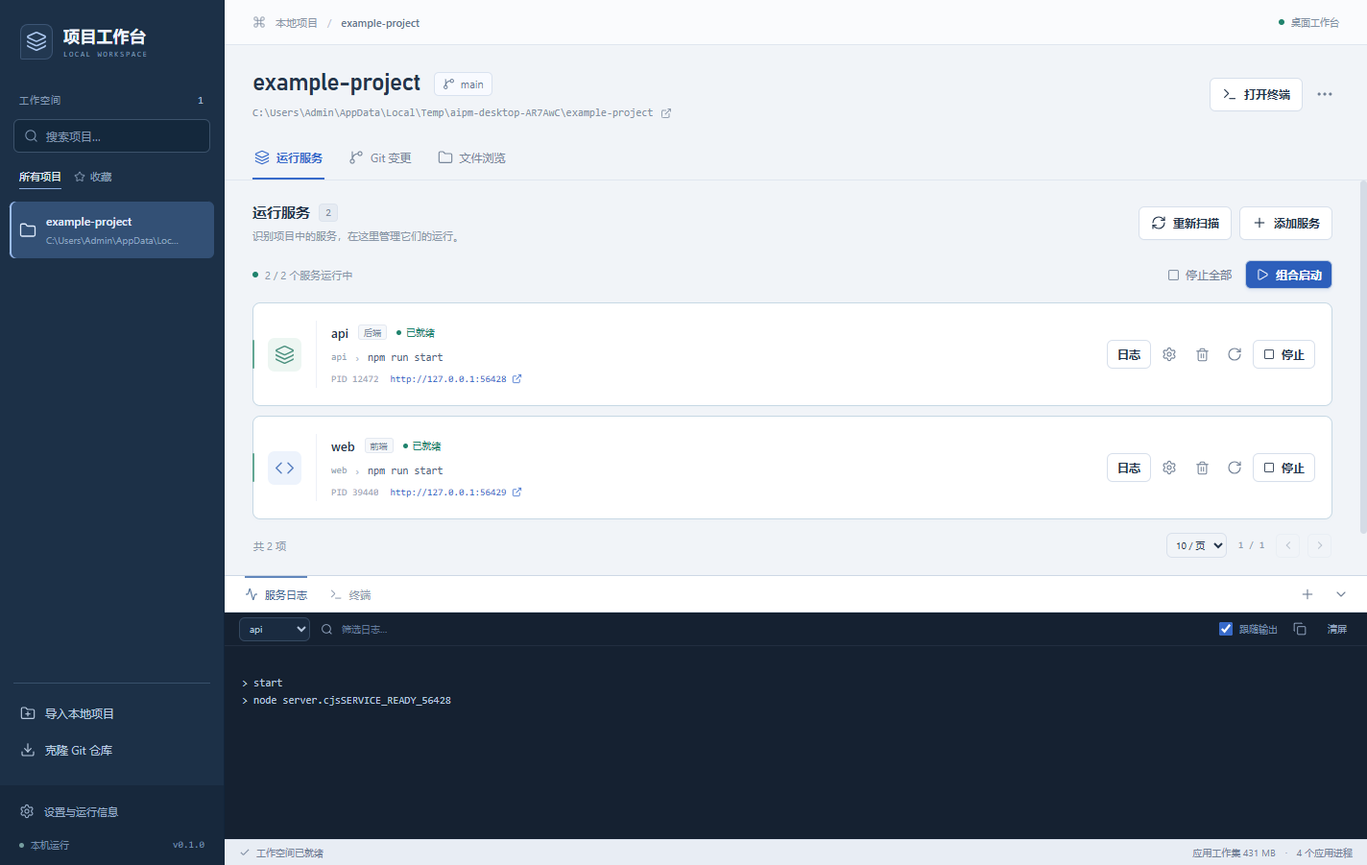
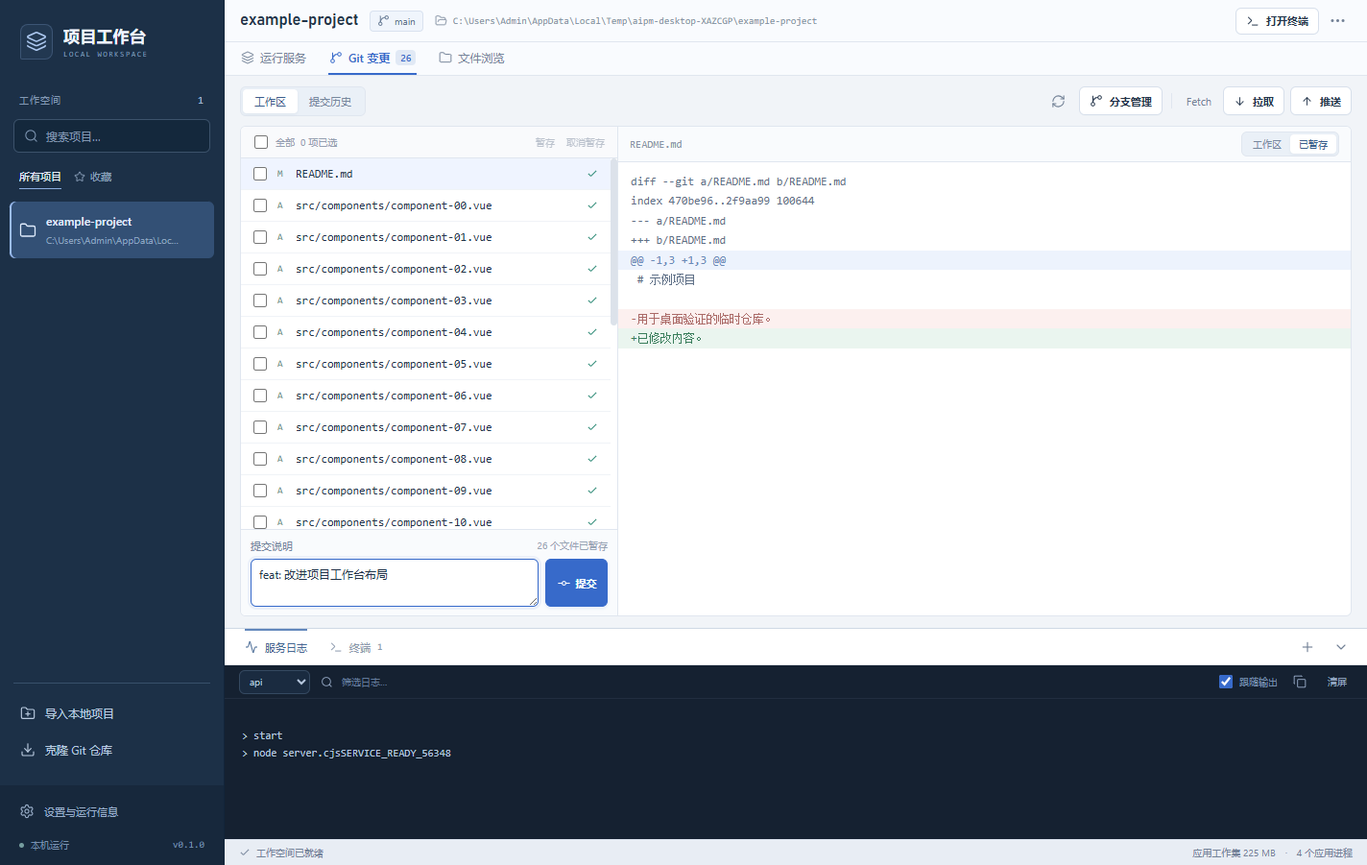
优化工作区布局，扩大 Git 变更与文件展示空间

diff --git a/src/styles/panels.css b/src/styles/panels.css
@@ -1,4 +1,7 @@
-.run-toolbar { display: flex; justify-content: space-between; align-items: center; padding: 0 0 14px; }
+.service-toolbar, .file-toolbar { display: flex; justify-content: space-between; align-items: center; gap: 12px; min-height: 32px; margin-bottom: 10px; flex-shrink: 0; }
+.service-toolbar > .button-group { gap: 6px; }
+.service-toolbar .button, .service-toolbar .text-button, .git-toolbar .button, .git-toolbar .text-button, .file-toolbar .button { font-size: 11px; }
+.toolbar-divider { width: 1px; height: 16px; background: var(--line); flex-shrink: 0; margin: 0 3px; }
 .run-summary { display: flex; align-items: center; gap: 7px; font-size: 11px; color: #8997aa; }
 .service-list { display: flex; flex-direction: column; gap: 10px; }
 .service-card { display: flex; align-items: center; position: relative; padding: 18px 17px 18px 0; background: #fff; border: 1px solid #dce4ef; border-radius: 8px; min-height: 108px; box-shadow: 0 2px 4px #1c304703; gap: 15px; }
@@ -30,46 +33,46 @@
 .start-button { color: var(--accent); background: #f3f7fe; border-color: #dce5f4; min-width: 66px; }
 .service-error { margin-top: 9px; color: #aa754e; font-size: 10px; line-height: 1.6; }
 .panel-tip { display: flex; gap: 7px; color: #8e9bad; font-size: 10px; margin-top: 12px; line-height: 1.7; }
-.git-toolbar { display: flex; justify-content: space-between; align-items: center; margin-bottom: 15px; }
-.git-columns, .file-columns { display: grid; grid-template-columns: minmax(270px, 34%) minmax(0, 1fr); border: 1px solid var(--line); border-radius: 7px; background: #fff; overflow: hidden; min-height: 340px; }
-.git-workspace { display: flex; flex-direction: column; }
-.git-panel { display: flex; flex-direction: column; flex: 1; min-height: 0; }
-.git-panel > .section-heading, .git-toolbar, .git-panel > .warning-banner { flex-shrink: 0; }
-.git-panel .git-columns { flex: 1; min-height: 300px; }
-.git-panel .changes-column, .git-panel .diff-column { min-height: 0; }
-.git-panel .changes-actions, .git-panel .commit-form, .git-panel .diff-header { flex-shrink: 0; }
-.git-panel .diff-content { flex: 1; min-height: 0; max-height: none; }
-.git-panel .diff-empty { min-height: 0; }
-.changes-column, .file-list-column { border-right: 1px solid var(--line); display: flex; flex-direction: column; min-width: 0; }
-.changes-actions { display: flex; align-items: center; gap: 6px; padding: 9px 10px; background: #f9fafc; border-bottom: 1px solid var(--line); font-size: 10px; color: #95a0b1; }
+.git-toolbar { display: flex; justify-content: space-between; align-items: center; gap: 12px; min-height: 32px; margin-bottom: 10px; flex-shrink: 0; }
+.git-toolbar > .button-group { gap: 6px; }
+.git-columns, .file-columns { display: grid; grid-template-columns: minmax(270px, 34%) minmax(0, 1fr); flex: 1; min-height: 0; border: 1px solid var(--line); border-radius: 6px; background: #fff; overflow: hidden; }
+.git-workspace, .file-workspace { display: flex; flex-direction: column; min-height: 260px; overflow: hidden; }
+.git-panel, .file-panel { display: flex; flex-direction: column; flex: 1; min-height: 0; }
+.git-panel > .warning-banner { flex-shrink: 0; }
+.changes-column, .file-list-column { border-right: 1px solid var(--line); display: flex; flex-direction: column; min-width: 0; min-height: 0; }
+.changes-actions { display: flex; align-items: center; flex-shrink: 0; gap: 6px; min-height: 33px; padding: 5px 10px; background: #f9fafc; border-bottom: 1px solid var(--line); font-size: 10px; color: #95a0b1; }
 .changes-actions > label { display: flex; align-items: center; gap: 5px; }
 .changes-actions > span { margin-right: auto; }
 .changes-actions .text-button { font-size: 10px; padding: 3px; }
 .change-list { flex: 1; min-height: 0; overflow-y: auto; overscroll-behavior-y: contain; }
 .change-row { display: flex; align-items: center; gap: 4px; padding: 0 9px; border-bottom: 1px solid #f0f3f7; }
 .change-row.selected { background: #eff4ff; }
-.change-row > button { display: flex; align-items: center; gap: 7px; text-align: left; padding: 10px 4px; width: 100%; min-width: 0; }
-.change-row .mono { font-size: 11px; overflow: hidden; text-overflow: ellipsis; white-space: nowrap; }
+.change-row > button { display: flex; align-items: center; gap: 7px; text-align: left; padding: 8px 4px; min-height: 32px; width: 100%; min-width: 0; }
+.change-row .mono { font-size: 12px; overflow: hidden; text-overflow: ellipsis; white-space: nowrap; }
 .file-status { font: 10px 'Cascadia Code', Consolas, monospace; color: #699187; width: 12px; }
 .file-status.conflict { color: var(--danger); }
 .staged-indicator { color: var(--success); margin-left: auto; display: flex; }
-.clean-state { display: flex; align-items: center; flex-direction: column; gap: 9px; color: #9caebf; padding: 38px 15px; }
+.clean-state { display: flex; justify-content: center; align-items: center; flex-direction: column; gap: 9px; height: 100%; color: #9caebf; padding: 16px; }
 .clean-state strong { color: #72849b; font-size: 12px; font-weight: 500; }
 .clean-state p { font-size: 10px; }
-.commit-form { padding: 14px 12px; border-top: 1px solid var(--line); display: flex; flex-direction: column; gap: 10px; background: #f9fbfd; }
+.commit-form { padding: 9px 10px; border-top: 1px solid var(--line); display: flex; flex-direction: column; flex-shrink: 0; gap: 6px; background: #f9fbfd; }
 .commit-form > label { display: flex; justify-content: space-between; font-size: 11px; color: #76879e; }
 .commit-form > label > span { font-size: 10px; color: #99a5b5; }
-.commit-form textarea { min-height: 76px; max-height: 150px; font-size: 11px; }
-.diff-column, .file-preview { min-width: 0; display: flex; flex-direction: column; }
-.diff-header { min-height: 40px; display: flex; align-items: center; justify-content: space-between; gap: 10px; padding: 8px 13px; border-bottom: 1px solid var(--line); background: #f9fbfd; color: #8794a7; font-size: 10px; }
+.commit-compose { display: flex; align-items: stretch; gap: 7px; min-width: 0; }
+.commit-compose textarea { flex: 1; min-width: 0; min-height: 48px; max-height: 120px; padding: 6px 8px; font-size: 12px; line-height: 1.5; }
+.commit-compose > .button { flex-shrink: 0; min-width: 65px; padding: 6px 9px; gap: 5px; font-size: 11px; }
+.diff-column, .file-preview { min-width: 0; min-height: 0; display: flex; flex-direction: column; }
+.diff-header { min-height: 33px; flex-shrink: 0; display: flex; align-items: center; justify-content: space-between; gap: 10px; padding: 5px 12px; border-bottom: 1px solid var(--line); background: #f9fbfd; color: #8794a7; font-size: 11px; }
 .diff-header > span { overflow: hidden; text-overflow: ellipsis; white-space: nowrap; }
-.diff-empty { flex: 1; display: flex; align-items: center; justify-content: center; flex-direction: column; gap: 12px; min-height: 230px; color: #a5b2c3; font-size: 11px; }
-.diff-content { overflow: auto; max-height: 520px; min-height: 230px; padding: 12px 0; font-size: 11px; line-height: 1.8; color: #5f7087; }
+.diff-empty { flex: 1; display: flex; align-items: center; justify-content: center; flex-direction: column; gap: 12px; min-height: 0; color: #a5b2c3; font-size: 11px; }
+.diff-content { flex: 1; overflow: auto; min-height: 0; padding: 10px 0; font-size: 12px; line-height: 1.7; color: #5f7087; }
 .diff-line { display: block; padding: 0 13px; min-height: 19px; white-space: pre; }
 .diff-line.addition { background: #eaf5ef; color: #3a7e5c; }
 .diff-line.deletion { background: #fcf0ef; color: #ab6a67; }
 .diff-line.hunk { background: #edf3fd; color: #6a8ab8; }
-.history-panel { background: #fff; border: 1px solid var(--line); border-radius: 7px; overflow: hidden; }
+.history-panel { flex: 1; min-height: 0; display: flex; flex-direction: column; background: #fff; border: 1px solid var(--line); border-radius: 6px; overflow: hidden; }
+.history-list { flex: 1; min-height: 0; overflow: auto; }
+.history-panel > .pagination { flex-shrink: 0; padding: 9px 12px; border-top: 1px solid var(--line); }
 .commit-row { display: flex; align-items: center; gap: 13px; padding: 15px 18px; border-bottom: 1px solid #edf0f5; }
 .commit-node { color: #8ca5c6; }
 .commit-row h3 { font-size: 12px; font-weight: 500; }
@@ -81,16 +84,17 @@
 .branch-row { display: flex; align-items: center; gap: 10px; padding: 12px 0; border-bottom: 1px solid #edf0f5; color: #6c82a0; }
 .branch-row > .mono { flex: 1; font-size: 12px; overflow: hidden; text-overflow: ellipsis; }
 .branch-row small { display: block; margin-top: 5px; font-size: 10px; color: #9ca9ba; }
-.breadcrumbs { display: flex; align-items: center; gap: 7px; color: #a5b2c2; padding: 0 0 14px; overflow-x: auto; }
+.breadcrumbs { display: flex; align-items: center; gap: 7px; min-width: 0; color: #a5b2c2; overflow-x: auto; }
 .breadcrumbs button { display: flex; align-items: center; gap: 7px; color: #6c82a0; font-size: 11px; white-space: nowrap; }
 .file-row { width: 100%; display: flex; align-items: center; gap: 9px; padding: 11px 13px; border-bottom: 1px solid #f0f3f7; text-align: left; font-size: 11px; color: #7e8fa6; }
 .file-row > span { color: #526984; overflow: hidden; text-overflow: ellipsis; white-space: nowrap; }
 .file-row small { margin-left: auto; font: 9px 'Cascadia Code', Consolas, monospace; color: #9fabbc; white-space: nowrap; }
 .file-row:hover, .file-row.selected { background: #f0f5ff; }
 .file-row .folder-icon { color: #a68b5e; }
-.file-list { flex: 1; }
-.file-content { padding: 17px; max-height: 550px; overflow: auto; font-size: 11px; line-height: 1.85; color: #53647c; }
-.output-dock { position: relative; flex-shrink: 0; height: 275px; display: flex; flex-direction: column; border-top: 1px solid #ced8e5; background: var(--terminal); }
+.file-list { flex: 1; min-height: 0; overflow: auto; }
+.file-list-column > .pagination { flex-shrink: 0; border-top: 1px solid var(--line); }
+.file-content { flex: 1; min-height: 0; padding: 14px; overflow: auto; font-size: 12px; line-height: 1.8; color: #53647c; }
+.output-dock { position: relative; flex-shrink: 0; height: 220px; display: flex; flex-direction: column; border-top: 1px solid #ced8e5; background: var(--terminal); }
 .output-dock.collapsed { height: 38px; }
 .dock-resizer { position: absolute; z-index: 5; top: -4px; left: 0; right: 0; height: 8px; cursor: ns-resize; touch-action: none; outline: none; }
 .dock-resizer::after { content: ''; position: absolute; top: 3px; left: 0; right: 0; height: 2px; background: transparent; transition: background .12s; }
@@ -125,6 +129,6 @@
 .terminal-host { min-height: 0; flex: 1; position: relative; }
 .terminal-canvas { position: absolute; inset: 8px 3px 5px 12px; }
 .terminal-canvas .xterm { height: 100%; }
-@media(max-height: 800px) { .output-dock { height: 225px; } .project-header { padding-top: 18px; padding-bottom: 15px; } .service-card { padding-top: 14px; padding-bottom: 14px; min-height: 95px; } }
+@media(max-height: 800px) { .output-dock { height: 180px; } .service-card { padding-top: 14px; padding-bottom: 14px; min-height: 95px; } }
 @media(max-width: 1120px) { .service-card { gap: 11px; padding-right: 11px; } .service-rail { width: 53px; } .service-actions { gap: 2px; } .service-actions .icon-button { width: 25px; } .service-meta > span { max-width: 260px; } }
-@media(max-width: 850px) { .git-columns, .file-columns { grid-template-columns: 1fr; } .changes-column, .file-list-column { border-right: 0; border-bottom: 1px solid var(--line); } .section-heading { align-items: flex-start; flex-wrap: wrap; } .service-card { flex-wrap: wrap; } .service-actions { margin-left: 64px; } .auto-scroll { display: none; } }
+@media(max-width: 850px) { .git-columns, .file-columns { grid-template-columns: 1fr; grid-template-rows: minmax(160px, 1fr) minmax(120px, 1fr); } .changes-column, .file-list-column { border-right: 0; border-bottom: 1px solid var(--line); } .git-toolbar, .service-toolbar { flex-wrap: wrap; } .git-toolbar > .button-group { flex-wrap: wrap; } .section-heading { align-items: flex-start; flex-wrap: wrap; } .service-card { flex-wrap: wrap; } .service-actions { margin-left: 64px; } .auto-scroll { display: none; } }

diff --git a/src/components/git/GitPanel.vue b/src/components/git/GitPanel.vue
@@ -34,15 +34,14 @@ async function showDiff(file: GitFile, staged: boolean) {
 async function mutate(operation: 'stage' | 'unstage' | 'commit' | 'fetch' | 'pull' | 'push' | 'abort') {
   if (busy.value) return; busy.value = true;
   await ws.task(`Git ${operation}`, async () => {
-    let output: string;
     if (operation === 'stage' || operation === 'unstage') {
       const paths = selected.value.filter(f => operation === 'stage' ? f.unstaged : f.staged).flatMap(f => operation === 'unstage' && f.originalPath ? [f.path, f.originalPath] : [f.path]);
-      output = await request(`git:${operation}`, { projectId: props.project.id, paths: [...new Set(paths)] });
+      await request(`git:${operation}`, { projectId: props.project.id, paths: [...new Set(paths)] });
       checked.value = [];
     } else if (operation === 'commit') {
-      output = await request('git:commit', { projectId: props.project.id, message: message.value }); message.value = '';
-    } else output = await request(`git:${operation}`, { projectId: props.project.id });
-    ws.notify(output.trim().slice(0, 600) || 'Git 操作完成');
+      await request('git:commit', { projectId: props.project.id, message: message.value }); message.value = '';
+    } else await request(`git:${operation}`, { projectId: props.project.id });
+    ws.notify({ stage: '已暂存所选文件', unstage: '已取消所选文件的暂存', commit: '提交完成', fetch: '已获取远端更新', pull: '拉取完成', push: '推送完成', abort: '已中止合并' }[operation]);
   });
   await refresh(); if (selectedFile.value) await showDiff(selectedFile.value, selectedStaged.value); busy.value = false;
 }
@@ -51,21 +50,20 @@ onMounted(refresh);
 </script>
 <template>
   <section class="git-panel">
-    <div class="section-heading"><div><h2>代码变更 <span>{{ files.length }}</span></h2><p>检查文件差异，再将选中的修改提交到仓库。</p></div><div class="button-group"><button class="button" :disabled="busy" @click="refresh"><AppIcon name="RefreshCw" />刷新</button><button class="button" :disabled="busy || !ws.gitStatus.value?.isRepository" @click="branches = true"><AppIcon name="GitBranch" />分支管理</button></div></div>
+    <div class="git-toolbar"><div class="segmented"><button :class="{ active: mode === 'changes' }" :disabled="!ws.gitStatus.value?.isRepository" @click="mode = 'changes'">工作区</button><button :class="{ active: mode === 'history' }" :disabled="!ws.gitStatus.value?.isRepository" @click="mode = 'history'">提交历史</button></div><div class="button-group"><button class="icon-button" :disabled="busy" aria-label="刷新" title="刷新 Git 状态" @click="refresh"><AppIcon name="RefreshCw" :size="15" /></button><button class="button small" :disabled="busy || !ws.gitStatus.value?.isRepository" @click="branches = true"><AppIcon name="GitBranch" :size="14" />分支管理</button><span class="toolbar-divider" /><button class="text-button" :disabled="busy || !ws.gitStatus.value?.isRepository" @click="mutate('fetch')">Fetch</button><button class="button small" :disabled="busy || !ws.gitStatus.value?.isRepository" title="仅允许快进，不自动合并或变基" @click="mutate('pull')"><AppIcon name="ArrowDown" :size="13" />拉取</button><button class="button small" :disabled="busy || !ws.gitStatus.value?.isRepository" @click="mutate('push')"><AppIcon name="ArrowUp" :size="13" />推送</button></div></div>
     <div v-if="ws.gitError.value" class="error-banner">{{ ws.gitError.value }}</div>
     <div v-else-if="!ws.gitStatus.value?.isRepository" class="empty-card"><AppIcon name="GitBranch" :size="30" /><h3>此目录还不是 Git 仓库</h3><p>可在项目终端中执行 git init，或导入已有仓库。</p><button class="button" @click="ws.newTerminal">打开终端</button></div>
     <template v-else>
-      <div class="git-toolbar"><div class="segmented"><button :class="{ active: mode === 'changes' }" @click="mode = 'changes'">工作区</button><button :class="{ active: mode === 'history' }" @click="mode = 'history'">提交历史</button></div><div class="button-group"><button class="text-button" :disabled="busy" @click="mutate('fetch')">Fetch</button><button class="button small" :disabled="busy" title="仅允许快进，不自动合并或变基" @click="mutate('pull')"><AppIcon name="ArrowDown" :size="13" />拉取</button><button class="button small" :disabled="busy" @click="mutate('push')"><AppIcon name="ArrowUp" :size="13" />推送</button></div></div>
       <div v-if="ws.gitStatus.value.merging" class="warning-banner"><AppIcon name="GitMerge" /><span>合并尚未完成。请处理冲突后暂存并提交，或中止本次合并。</span><button class="button small" :disabled="busy" @click="mutate('abort')">中止合并</button></div>
       <div v-if="mode === 'changes'" class="git-columns">
         <div class="changes-column"><div class="changes-actions"><label><input type="checkbox" :checked="files.length > 0 && selected.length === files.length" :indeterminate="selected.length > 0 && selected.length < files.length" aria-label="选择全部变更文件" @change="toggleAll" />全部</label><span>{{ checked.length }} 项已选</span><button class="text-button" :disabled="busy || !selected.some(f => f.unstaged)" @click="mutate('stage')">暂存</button><button class="text-button" :disabled="busy || !selected.some(f => f.staged)" @click="mutate('unstage')">取消暂存</button></div>
           <div class="change-list" role="region" aria-label="变更文件列表" tabindex="0"><div v-for="file in files" :key="file.path" class="change-row" :class="{ selected: selectedFile?.path === file.path }"><input v-model="checked" type="checkbox" :value="file.path" :aria-label="`选择 ${file.path}`" /><button @click="showDiff(file, file.staged && !file.unstaged)"><span class="file-status" :class="{ conflict: file.conflict }">{{ file.conflict ? '!' : file.index === '?' ? 'U' : file.index.trim() || file.working }}</span><span class="mono" :title="file.path">{{ file.path }}</span><span v-if="file.staged" class="staged-indicator" title="含已暂存修改"><AppIcon name="Check" :size="12" /></span></button></div><div v-if="!files.length" class="clean-state"><AppIcon name="Check" :size="28" /><strong>工作区干净</strong><p>暂时没有需要提交的修改。</p></div></div>
-          <form class="commit-form" @submit.prevent="mutate('commit')"><label for="commit-message">提交说明 <span>{{ stagedCount }} 个文件已暂存</span></label><textarea id="commit-message" v-model="message" rows="3" placeholder="描述这次修改的内容和原因…" /><button class="button primary" :disabled="busy || (!stagedCount && !ws.gitStatus.value.merging) || !message.trim()"><AppIcon name="GitCommitHorizontal" />提交{{ ws.gitStatus.value.merging ? '合并' : '已暂存修改' }}</button></form>
+          <form class="commit-form" @submit.prevent="mutate('commit')"><label for="commit-message">提交说明 <span>{{ stagedCount }} 个文件已暂存</span></label><div class="commit-compose"><textarea id="commit-message" v-model="message" rows="2" placeholder="说明这次修改…" /><button class="button primary small" :aria-label="ws.gitStatus.value.merging ? '提交合并' : '提交已暂存修改'" :disabled="busy || (!stagedCount && !ws.gitStatus.value.merging) || !message.trim()"><AppIcon name="GitCommitHorizontal" :size="15" />{{ ws.gitStatus.value.merging ? '合并' : '提交' }}</button></div></form>
         </div>
         <div class="diff-column"><div class="diff-header"><span class="mono">{{ selectedFile?.path || '文件差异' }}</span><div v-if="selectedFile" class="segmented small"><button :class="{ active: !selectedStaged }" @click="showDiff(selectedFile, false)">工作区</button><button :class="{ active: selectedStaged }" @click="showDiff(selectedFile, true)">已暂存</button></div></div><div v-if="diffLoading" class="empty-inline">读取差异…</div><div v-else-if="!selectedFile" class="diff-empty"><AppIcon name="Files" :size="30" /><p>选择左侧文件，查看具体修改。</p></div><pre v-else class="diff-content"><span v-for="(line, index) in diffLines" :key="index" class="diff-line" :class="{ addition: line.startsWith('+') && !line.startsWith('+++'), deletion: line.startsWith('-') && !line.startsWith('---'), hunk: line.startsWith('@@') }">{{ line || ' ' }}
 </span></pre></div>
       </div>
-      <div v-else class="history-panel"><article v-for="commit in historyPager.rows.value" :key="commit.hash" class="commit-row"><span class="commit-node"><AppIcon name="GitCommitHorizontal" :size="18" /></span><div><h3>{{ commit.subject }}</h3><p>{{ commit.author }}<span>·</span>{{ shortDate(commit.date) }}</p></div><code>{{ commit.shortHash }}</code></article><p v-if="!history.length" class="empty-inline">仓库还没有提交记录。</p><PaginationControls :total="historyPager.total.value" :page="historyPager.page.value" :size="historyPager.size.value" @update:page="historyPager.page.value = $event" @update:size="historyPager.size.value = $event" /></div>
+      <div v-else class="history-panel"><div class="history-list"><article v-for="commit in historyPager.rows.value" :key="commit.hash" class="commit-row"><span class="commit-node"><AppIcon name="GitCommitHorizontal" :size="18" /></span><div><h3>{{ commit.subject }}</h3><p>{{ commit.author }}<span>·</span>{{ shortDate(commit.date) }}</p></div><code>{{ commit.shortHash }}</code></article><p v-if="!history.length" class="empty-inline">仓库还没有提交记录。</p></div><PaginationControls :total="historyPager.total.value" :page="historyPager.page.value" :size="historyPager.size.value" @update:page="historyPager.page.value = $event" @update:size="historyPager.size.value = $event" /></div>
     </template>
     <BranchDialog v-if="branches" :project-id="project.id" @close="branches = false; refresh()" />
   </section>

diff --git a/src/views/WorkspaceView.vue b/src/views/WorkspaceView.vue
@@ -22,15 +22,20 @@ onMounted(() => window.addEventListener('focus', focus)); onBeforeUnmount(() => 
 </script>
 <template>
   <div class="workspace-view">
-    <header class="workspace-topbar"><span class="breadcrumb-caption"><AppIcon name="Command" :size="14" />本地项目<span>/</span><strong>{{ project?.name || '工作空间' }}</strong></span><span class="topbar-hint"><span class="status-dot running" />{{ desktopMode ? '桌面工作台' : '浏览器预览' }}</span></header>
+    <header class="workspace-topbar">
+      <template v-if="project">
+        <div class="workspace-project"><h1 :title="project.name">{{ project.name }}</h1><span v-if="ws.gitStatus.value?.isRepository" class="branch-badge" :title="ws.gitStatus.value.branch"><AppIcon name="GitBranch" :size="13" /><span class="branch-name">{{ ws.gitStatus.value.branch }}</span><span v-if="ws.gitStatus.value.ahead" class="mono">↑{{ ws.gitStatus.value.ahead }}</span><span v-if="ws.gitStatus.value.behind" class="mono">↓{{ ws.gitStatus.value.behind }}</span></span><button class="project-path mono" :title="project.path" aria-label="打开项目文件夹" @click="ws.task('打开文件夹', () => request('project:reveal', { projectId: project!.id }))"><AppIcon name="FolderOpen" :size="13" /><span>{{ project.path }}</span></button></div>
+        <div class="workspace-actions"><button class="button small" @click="ws.newTerminal"><AppIcon name="Terminal" :size="14" />打开终端</button><div class="project-menu"><button class="icon-button" title="项目选项" aria-label="项目选项" @click="menu = !menu"><AppIcon name="Ellipsis" :size="19" /></button><div v-if="menu" class="popover-menu"><button @click="ws.task('打开文件夹', () => request('project:reveal', { projectId: project!.id })); menu = false"><AppIcon name="FolderOpen" />打开文件夹</button><button class="danger-text" @click="remove"><AppIcon name="Trash2" />移除项目记录</button></div></div></div>
+      </template>
+      <template v-else><span class="breadcrumb-caption"><AppIcon name="Command" :size="14" />本地工作空间</span><span class="topbar-hint"><span class="status-dot running" />{{ desktopMode ? '桌面工作台' : '浏览器预览' }}</span></template>
+    </header>
     <div v-if="!ws.ready.value" class="welcome-screen"><AppIcon name="Loader" :size="28" class="spin" /><p>加载工作空间…</p></div>
     <div v-else-if="!project" class="welcome-screen"><div class="welcome-art"><span /><span /><span /><AppIcon name="FolderOpen" :size="44" /></div><div class="eyebrow">YOUR LOCAL WORKSPACE</div><h1>让项目，随时就绪。</h1><p>导入代码仓库，管理服务、终端和 Git。<br />从一个项目开始，保持工作空间简单。</p><div class="welcome-actions"><button class="button primary" @click="ws.importProject"><AppIcon name="FolderPlus" />导入本地项目</button><button class="button" @click="cloneOpen = true"><AppIcon name="Download" />克隆 Git 仓库</button></div><div v-if="!desktopMode" class="preview-note">当前是界面预览。请在项目目录执行 <code>npm run dev</code>，使用桌面文件、Git和终端功能。</div><div class="welcome-footnote"><span><AppIcon name="Layers" />识别多服务</span><span><AppIcon name="Terminal" />项目终端</span><span><AppIcon name="GitBranch" />基础 Git</span></div></div>
     <template v-else>
-      <div class="project-header"><div><div class="project-heading"><h1>{{ project.name }}</h1><span v-if="ws.gitStatus.value?.isRepository" class="branch-badge"><AppIcon name="GitBranch" :size="13" />{{ ws.gitStatus.value.branch }}<span v-if="ws.gitStatus.value.ahead" class="mono">↑{{ ws.gitStatus.value.ahead }}</span><span v-if="ws.gitStatus.value.behind" class="mono">↓{{ ws.gitStatus.value.behind }}</span></span></div><button class="project-path mono" :title="project.path" @click="ws.task('打开文件夹', () => request('project:reveal', { projectId: project!.id }))">{{ project.path }}<AppIcon name="ExternalLink" :size="12" /></button></div><div class="button-group"><button class="button" @click="ws.newTerminal"><AppIcon name="Terminal" />打开终端</button><div class="project-menu"><button class="icon-button" title="项目选项" aria-label="项目选项" @click="menu = !menu"><AppIcon name="Ellipsis" :size="20" /></button><div v-if="menu" class="popover-menu"><button @click="ws.task('打开文件夹', () => request('project:reveal', { projectId: project!.id })); menu = false"><AppIcon name="FolderOpen" />打开文件夹</button><button class="danger-text" @click="remove"><AppIcon name="Trash2" />移除项目记录</button></div></div></div></div>
       <nav class="project-tabs" aria-label="项目功能"><button v-for="item in tabs" :key="item.key" :class="{ active: tab === item.key }" @click="tab = item.key"><AppIcon :name="item.icon" />{{ item.label }}<span v-if="item.key === 'git' && ws.gitStatus.value?.files.length">{{ ws.gitStatus.value.files.length }}</span></button></nav>
-      <div class="workspace-content" :class="{ 'git-workspace': tab === 'git' }"><ServicePanel v-if="tab === 'services'" :key="project.id" :project="project" /><GitPanel v-else-if="tab === 'git'" :key="project.id" :project="project" /><FilePanel v-else :key="project.id" :project="project" /></div>
+      <div class="workspace-content" :class="{ 'git-workspace': tab === 'git', 'file-workspace': tab === 'files' }"><ServicePanel v-if="tab === 'services'" :key="project.id" :project="project" /><GitPanel v-else-if="tab === 'git'" :key="project.id" :project="project" /><FilePanel v-else :key="project.id" :project="project" /></div>
     </template>
-    <OutputDock />
+    <OutputDock :layout-key="tab" />
     <footer class="statusbar"><span v-if="ws.tasks.value.length"><AppIcon name="Loader" :size="12" class="spin" />{{ ws.tasks.value.at(-1) }}…</span><span v-else><AppIcon name="Check" :size="12" />{{ project ? '工作空间已就绪' : '选择项目以开始' }}</span><span v-if="ws.metrics.value" title="Electron 应用各进程工作集合计，可能重复计入共享页；不含项目服务">应用工作集 {{ ws.metrics.value.workingSetMb }} MB<span class="statusbar-divider">·</span>{{ ws.metrics.value.processCount }} 个应用进程</span><span v-else>配置保存在本机</span></footer>
     <CloneDialog v-if="cloneOpen" @close="cloneOpen = false" />
   </div>

diff --git a/src/styles/layout.css b/src/styles/layout.css
@@ -39,23 +39,26 @@
 .sidebar .pagination .icon-button { width: 21px; color: #9cb1cb; }
 .main-shell { min-width: 0; min-height: 0; overflow: hidden; }
 .workspace-view { height: 100%; display: flex; flex-direction: column; min-height: 0; }
-.workspace-topbar { display: flex; align-items: center; justify-content: space-between; height: 47px; min-height: 47px; padding: 0 29px; background: #ffffffa8; border-bottom: 1px solid var(--line); }
+.workspace-topbar { display: flex; align-items: center; justify-content: space-between; gap: 16px; height: 44px; min-height: 44px; padding: 0 16px; background: #f9fbfe; border-bottom: 1px solid var(--line); }
+.workspace-project { display: flex; align-items: center; gap: 12px; flex: 1; min-width: 0; }
+.workspace-project h1 { flex-shrink: 1; min-width: 80px; max-width: 290px; font-family: 'Bahnschrift', 'Segoe UI Variable', 'Microsoft YaHei UI', sans-serif; font-size: 17px; font-weight: 550; letter-spacing: -.2px; white-space: nowrap; overflow: hidden; text-overflow: ellipsis; }
+.workspace-actions { display: flex; align-items: center; gap: 4px; flex-shrink: 0; }
+.workspace-actions .button { min-height: 28px; font-size: 11px; }
 .breadcrumb-caption { display: flex; align-items: center; gap: 10px; color: #8995a7; font-size: 11px; min-width: 0; }
 .breadcrumb-caption strong { font-weight: 500; color: #60718a; overflow: hidden; text-overflow: ellipsis; white-space: nowrap; }
 .breadcrumb-caption > span { color: #bcc5d1; }
 .topbar-hint { display: flex; align-items: center; gap: 7px; font-size: 10px; color: #8190a3; }
-.project-header { display: flex; justify-content: space-between; align-items: center; padding: 25px 29px 20px; gap: 20px; flex-shrink: 0; }
-.project-header > div:first-child { min-width: 0; }
-.project-heading { display: flex; align-items: center; gap: 14px; flex-wrap: wrap; }
-.project-heading h1 { font-family: 'Bahnschrift', 'Segoe UI Variable', 'Microsoft YaHei UI', sans-serif; font-size: 25px; font-weight: 550; }
-.branch-badge { display: inline-flex; align-items: center; gap: 6px; padding: 4px 8px; border: 1px solid #d9e2ef; color: #60748f; border-radius: 5px; font-size: 11px; background: #f8faff; max-width: 400px; overflow: hidden; text-overflow: ellipsis; }
-.project-path { display: flex; align-items: center; gap: 8px; padding: 0; margin-top: 9px; color: #8491a3; font-size: 11px; max-width: 650px; overflow: hidden; text-overflow: ellipsis; white-space: nowrap; }
+.branch-badge { display: inline-flex; align-items: center; gap: 5px; flex-shrink: 0; padding: 3px 7px; border: 1px solid #d9e2ef; color: #60748f; border-radius: 4px; font-size: 10px; background: #f0f5fc; max-width: 200px; min-width: 0; }
+.branch-name { min-width: 0; overflow: hidden; text-overflow: ellipsis; white-space: nowrap; }
+.project-path { display: flex; align-items: center; gap: 6px; padding: 0; color: #8491a3; font-size: 10px; flex: 1; min-width: 22px; max-width: 440px; white-space: nowrap; }
+.project-path > span { overflow: hidden; text-overflow: ellipsis; }
 .project-path:hover { color: var(--accent); }
-.project-tabs { display: flex; align-items: center; gap: 23px; padding: 0 29px; border-bottom: 1px solid var(--line); flex-shrink: 0; }
-.project-tabs button { display: flex; gap: 7px; align-items: center; padding: 12px 2px 13px; color: #77869a; border-bottom: 2px solid transparent; font-size: 12px; }
+.project-tabs { display: flex; align-items: stretch; gap: 22px; height: 35px; min-height: 35px; padding: 0 16px; border-bottom: 1px solid var(--line); flex-shrink: 0; background: #f9fbfe; }
+.project-tabs button { display: flex; gap: 6px; align-items: center; padding: 0 1px; color: #77869a; border-bottom: 2px solid transparent; font-size: 12px; }
+.project-tabs button > svg { width: 14px; height: 14px; }
 .project-tabs button.active { color: var(--accent); border-color: var(--accent); font-weight: 600; }
 .project-tabs button > span { background: #e1e9f5; border-radius: 4px; font-size: 10px; padding: 1px 5px; }
-.workspace-content { flex: 1; overflow: auto; padding: 23px 29px; min-height: 100px; }
+.workspace-content { flex: 1; overflow: auto; padding: 10px 16px 12px; min-height: 100px; }
 .statusbar { height: 27px; min-height: 27px; display: flex; justify-content: space-between; align-items: center; gap: 10px; padding: 0 15px; background: #e8edf4; color: #738298; border-top: 1px solid #dce3ee; font-size: 10px; }
 .statusbar > span { display: flex; align-items: center; gap: 6px; }
 .statusbar-divider { margin: 0 4px; color: #a1adbd; }
@@ -81,5 +84,5 @@
 .settings-card dt { color: var(--secondary); }
 .settings-card dd { margin: 0; font-family: 'Cascadia Code', Consolas, monospace; }
 .settings-card ul { padding-left: 19px; line-height: 2.2; color: var(--secondary); font-size: 12px; }
-@media(max-width: 1120px) { .app-shell { grid-template-columns: 205px minmax(0, 1fr); } .workspace-content { padding: 18px; } .project-header { padding: 20px 18px 16px; } .workspace-topbar, .project-tabs { padding-left: 18px; padding-right: 18px; } .brand { padding-left: 16px; } }
-@media(max-width: 760px) { .app-shell { grid-template-columns: 175px minmax(0, 1fr); } .brand strong { font-size: 14px; } .brand small { font-size: 7px; } .project-header { flex-wrap: wrap; } .service-actions { flex-wrap: wrap; justify-content: flex-end; max-width: 140px; } .welcome-screen h1 { font-size: 24px; } .welcome-actions, .welcome-footnote { flex-wrap: wrap; justify-content: center; } .topbar-hint { display: none; } }
+@media(max-width: 1120px) { .app-shell { grid-template-columns: 205px minmax(0, 1fr); } .workspace-project { gap: 8px; } .workspace-project h1 { max-width: 235px; } .branch-badge { max-width: 160px; } .brand { padding-left: 16px; } }
+@media(max-width: 760px) { .app-shell { grid-template-columns: 175px minmax(0, 1fr); } .brand strong { font-size: 14px; } .brand small { font-size: 7px; } .workspace-topbar { gap: 8px; } .workspace-project h1 { font-size: 15px; max-width: 185px; } .branch-badge { max-width: 110px; } .project-path > span { display: none; } .service-actions { flex-wrap: wrap; justify-content: flex-end; max-width: 140px; } .welcome-screen h1 { font-size: 24px; } .welcome-actions, .welcome-footnote { flex-wrap: wrap; justify-content: center; } .topbar-hint { display: none; } }

diff --git a/src/components/files/FilePanel.vue b/src/components/files/FilePanel.vue
@@ -22,8 +22,7 @@ async function open(entry: FileEntry) {
 onMounted(() => load(''));
 </script>
 <template>
-  <section class="file-panel"><div class="section-heading"><div><h2>项目文件</h2><p>按需浏览结构与文本，可在系统文件夹中定位文件。</p></div><button class="button" @click="load()"><AppIcon name="RefreshCw" />刷新目录</button></div>
-    <div class="breadcrumbs"><button @click="load('')"><AppIcon name="Folder" />{{ project.name }}</button><template v-for="(part, index) in breadcrumbs" :key="index"><AppIcon name="ChevronRight" :size="13" /><button @click="load(breadcrumbs.slice(0, index + 1).join('/'))">{{ part }}</button></template></div>
+  <section class="file-panel"><div class="file-toolbar"><div class="breadcrumbs"><button @click="load('')"><AppIcon name="Folder" :size="14" />{{ project.name }}</button><template v-for="(part, index) in breadcrumbs" :key="index"><AppIcon name="ChevronRight" :size="13" /><button @click="load(breadcrumbs.slice(0, index + 1).join('/'))">{{ part }}</button></template></div><button class="button small" @click="load()"><AppIcon name="RefreshCw" :size="14" />刷新目录</button></div>
     <div class="file-columns"><div class="file-list-column"><div class="file-list"><button v-if="directory" class="file-row" @click="load(breadcrumbs.slice(0, -1).join('/'))"><AppIcon name="ArrowLeft" /><span>上级目录</span></button><button v-for="entry in pager.rows.value" :key="entry.path" class="file-row" :class="{ selected: selected?.path === entry.path }" @click="open(entry)"><AppIcon :name="entry.directory ? 'Folder' : 'FileText'" :class="{ 'folder-icon': entry.directory }" /><span>{{ entry.name }}</span><small>{{ entry.directory ? '' : fileSize(entry.size) }}</small><AppIcon v-if="entry.directory" name="ChevronRight" :size="13" /></button><p v-if="!entries.length" class="empty-inline">目录中没有可显示的文件。</p></div><PaginationControls compact :total="pager.total.value" :page="pager.page.value" :size="pager.size.value" @update:page="pager.page.value = $event" @update:size="pager.size.value = $event" /></div>
       <div class="file-preview"><div class="diff-header"><span class="mono">{{ selected?.path || '文本预览' }}</span><button v-if="selected" class="text-button" @click="ws.task('定位文件', () => request('files:open', { projectId: project.id, path: selected!.path }))"><AppIcon name="ExternalLink" :size="13" />在文件夹中显示</button></div><div v-if="!selected" class="diff-empty"><AppIcon name="FileText" :size="30" /><p>选择文件查看内容</p></div><div v-else-if="loading" class="empty-inline">正在读取…</div><pre v-else class="file-content">{{ content }}</pre></div>
     </div>

diff --git a/src/components/services/ServicePanel.vue b/src/components/services/ServicePanel.vue
@@ -31,8 +31,7 @@ async function remove(profile: ServiceProfile) {
 </script>
 <template>
   <section class="service-panel">
-    <div class="section-heading"><div><h2>运行服务 <span>{{ project.services.length }}</span></h2><p>识别项目中的服务，在这里管理它们的运行。</p></div><div class="button-group"><button class="button" @click="scan"><AppIcon name="RefreshCw" />重新扫描</button><button class="button" @click="edit()"><AppIcon name="Plus" />添加服务</button></div></div>
-    <div v-if="project.services.length" class="run-toolbar"><div class="run-summary"><span class="status-dot" :class="{ running: active > 0 }" />{{ active }} / {{ project.services.length }} 个服务运行中</div><div class="button-group"><button class="text-button" :disabled="!active" @click="all('stop-all')"><AppIcon name="Square" :size="13" />停止全部</button><button class="button primary small" :disabled="ws.tasks.value.includes('组合启动')" @click="all('start-all')"><AppIcon name="Play" :size="14" />{{ ws.tasks.value.includes('组合启动') ? '正在组合启动…' : '组合启动' }}</button></div></div>
+    <div class="service-toolbar"><div class="run-summary"><span class="status-dot" :class="{ running: active > 0 }" />{{ active }} / {{ project.services.length }} 个服务运行中</div><div class="button-group"><button class="button small" @click="scan"><AppIcon name="RefreshCw" :size="14" />重新扫描</button><button class="button small" @click="edit()"><AppIcon name="Plus" :size="14" />添加服务</button><template v-if="project.services.length"><span class="toolbar-divider" /><button class="text-button" :disabled="!active" @click="all('stop-all')"><AppIcon name="Square" :size="13" />停止全部</button><button class="button primary small" :disabled="ws.tasks.value.includes('组合启动')" @click="all('start-all')"><AppIcon name="Play" :size="14" />{{ ws.tasks.value.includes('组合启动') ? '正在组合启动…' : '组合启动' }}</button></template></div></div>
     <div v-if="!project.services.length" class="empty-card"><span class="empty-symbol"><AppIcon name="Layers" :size="28" /></span><h3>还没有运行配置</h3><p>扫描没有发现常见入口。可以添加自定义命令，管理任意本地服务。</p><button class="button primary" @click="edit()"><AppIcon name="Plus" />添加运行配置</button></div>
     <div class="service-list">
       <article v-for="service in pager.rows.value" :key="service.id" class="service-card" :class="{ 'is-running': ['ready', 'running', 'starting'].includes(ws.runFor(service.id)?.state || '') }">

diff --git a/src/components/terminal/OutputDock.vue b/src/components/terminal/OutputDock.vue
@@ -5,9 +5,10 @@ import TerminalPane from './TerminalPane.vue';
 import { useWorkspace } from '@/composables/useWorkspace';
 import { request } from '@/api/desktop';
 import { useDockResize } from '@/composables/useDockResize';
+const props = defineProps<{ layoutKey?: string }>();
 const ws = useWorkspace(); const output = ref(''); const filter = ref(''); const autoScroll = ref(true); const logElement = ref<HTMLElement>();
 const dock = ref<HTMLElement>(); const resize = useDockResize(dock, ws.dockOpen);
-watch(ws.activeId, async () => { await nextTick(); resize.measure(); });
+watch([ws.activeId, () => props.layoutKey], async () => { await nextTick(); resize.measure(); });
 let unsubscribe: (() => void) | undefined; let pending = ''; let flushTimer: ReturnType<typeof setTimeout> | undefined; let generation = 0;
 const projectTerminals = computed(() => ws.terminals.value.filter(t => t.projectId === ws.activeId.value));
 const visibleOutput = computed(() => {

diff --git a/src/composables/useDockResize.ts b/src/composables/useDockResize.ts
@@ -2,7 +2,7 @@ import { computed, nextTick, onBeforeUnmount, onMounted, ref, watch, type Ref } 
 
 const STORAGE_KEY = 'output-dock-height';
 const MIN_HEIGHT = 160;
-const defaultHeight = () => window.innerHeight <= 800 ? 225 : 275;
+const defaultHeight = () => window.innerHeight <= 800 ? 180 : 220;
 function storedHeight() {
   try {
     const value = Number(localStorage.getItem(STORAGE_KEY));

diff --git a/docs/verification.md b/docs/verification.md
@@ -27,6 +27,8 @@
 
 Git 变更新增 26 项文件场景，检查新目录下的文件完整展示、忽略文件不显示、变更列表无分页、真实滚轮滚动、深层中文路径文件预览、单文件暂存和取消暂存、全选后批量暂存提交。
 
+紧凑布局通过 1440×940 和 1000×680 两种原生窗口尺寸验证：项目栏为 44px、功能导航为 35px，Git 主区域从页面顶部约 131px 处开始；正常测试窗口中文件列表高度为 386px，提交区域完整可见且主页面不产生额外纵向滚动。另验证拖大终端后切回 Git 会限制终端高度、收起输出面板会扩展文件区域，以及批量暂存成功提示不会用长段 Git 输出遮住工作区。
+
 截图位于 `.runtime/screenshots/`。README 中的截图来自临时项目的实际运行结果。
 
 `npm run test:desktop:launch` 已通过正常启动入口验证：在 5178 端口占用的情况下启动临时客户端，确认 Electron 窗口可见且 Windows 原生主窗口句柄非零，验证继承的隐藏测试标志不会隐藏正常窗口，随后通过正常退出流程关闭客户端及内部服务。测试使用独立应用数据，不影响用户工作空间。

diff --git a/README.md b/README.md
@@ -4,7 +4,7 @@
 
 第一版以 Windows 本机开发为目标，采用 Electron、Vue 3、TypeScript。当前提供源码开发版，尚未制作安装包，也没有 AI 模型调用和后台 AI 服务。
 
-![运行服务界面，使用临时示例项目进行真实桌面验证](docs/images/workspace.png)
+![紧凑的 Git 工作区，使用临时示例项目进行真实桌面验证](docs/images/workspace.png)
 
 ## 已实现功能
 
@@ -15,6 +15,7 @@
 - Git 状态、文本差异、文件级暂存/取消暂存、提交、创建与切换分支、Fetch、仅快进拉取、推送、合并和中止合并。
 - 目录按需读取、文本预览、在系统文件管理器中定位文件。
 - Git 变更文件逐项完整列出，支持滚轮滚动、单独选择和全选；其他列表默认每页 10 条，可选择 20 / 50 条。
+- 项目名、分支与路径合并在紧凑顶栏中；Git 文件列表和差异区域独立滚动，提交输入区保持可见，日志和终端仍支持拖动调高。
 - 应用进程工作集和 CPU 统计，明确区分应用开销与项目服务开销。
 
 ## 启动
